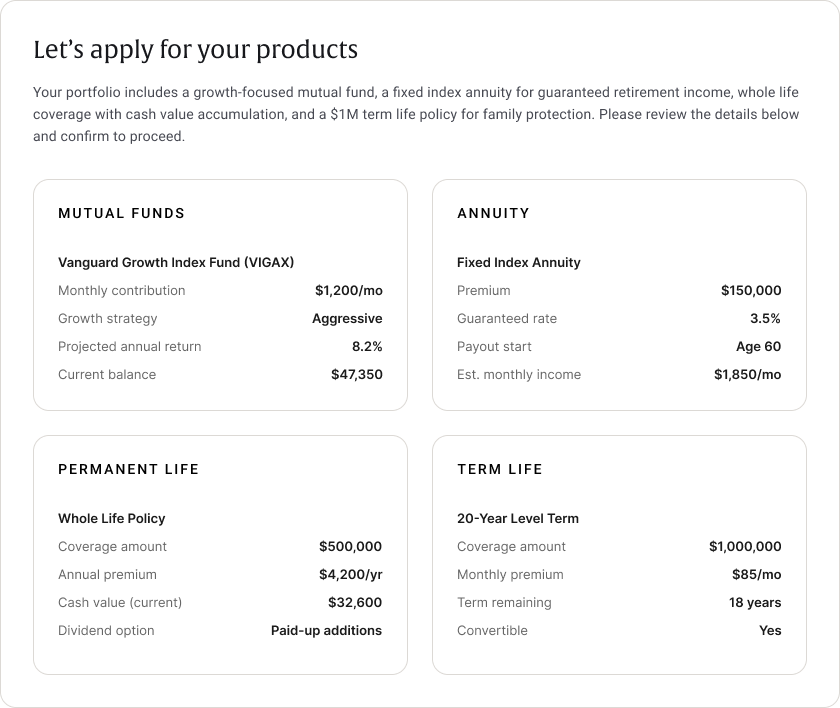
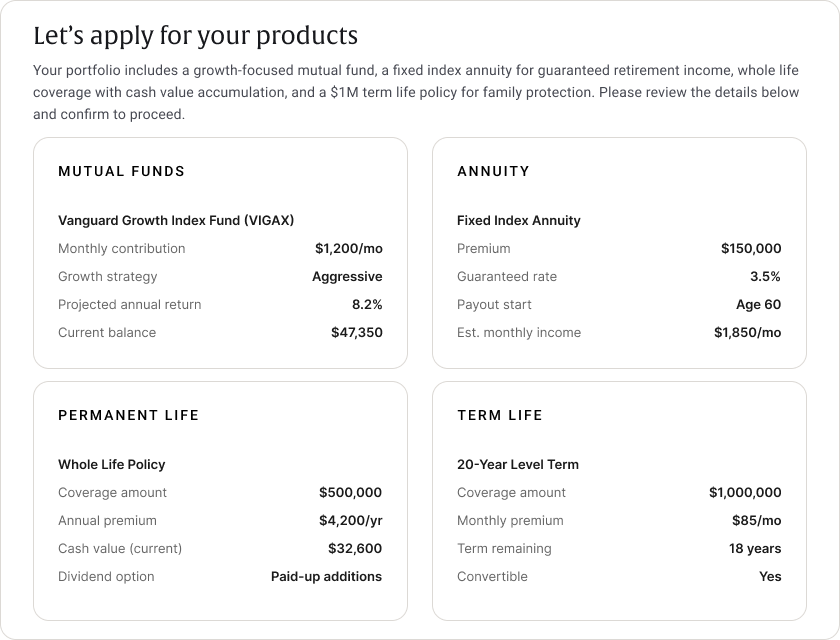
wrap up

diff --git a/src/scenes/ClientBriefingScene.tsx b/src/scenes/ClientBriefingScene.tsx
@@ -40,6 +40,10 @@ import financial3 from '../components/fin-plan-3.png'
 import nylaApply from '../components/nyla-apply.png'
 import pref2 from '../components/preference-2.png'
 import pref2nyla from '../components/preference-2-nyla.png'
+import nylapref3 from '../components/nyla-pref-3.png'
+import bodyPref3 from '../components/body-pref-3.png'
+import nylaLegacy from '../components/nyla-legacy.png';
+import legacyBody from '../components/legacy-body.png';
 
 /* ============================================================================
  * Client Briefing scene — the client's own version of the briefing screen.
@@ -331,8 +335,7 @@ const getTitle = (activeNav: string) => {
     case 'Preference Center':
       return 'Your Profile'
     case 'Legacy Vault':
-      // Code to run if expression == value2
-      break
+      return 'Welcome Eric'
     case 'Collab Board':
       return 'Collab Board'
     case 'Financial Plan':
@@ -350,7 +353,7 @@ const getTitle = (activeNav: string) => {
  * left ("Welcome Eric"), nothing on the right. */
 function TopNav({ activeNav }: { activeNav: string }) {
   return (
-    <div className="flex h-[120px] items-center">
+    <div className="flex h-[100px] items-center">
       <div className={[GRID, 'grid w-full grid-cols-12 items-center gap-6'].join(' ')}>
         <p className="col-span-5 font-serif text-[18px] text-[var(--text-headline)]" style={{ fontWeight: 400 }}>
           {getTitle(activeNav)}
@@ -963,7 +966,7 @@ export function ClientBriefingScene() {
                   transition={{ duration: DURATION.standard, delay: 0.2 }}
                   className={[GRID, 'mt-5 flex items-center gap-3'].join(' ')}
                 >
-                  <p className="text-[13px] text-[var(--text-body-muted)] mb-8 ml-2">
+                  <p className="text-[13px] text-[var(--text-body-muted)] mb-8 ml-2 cursor-pointer" onClick={() => setPreferenceView(3)}>
                     As of 12:16 PM · 4/25 questions completed
                   </p>
                 </motion.div>
@@ -991,8 +994,83 @@ export function ClientBriefingScene() {
                 </motion.div>
               </>
             )}
-            {activeNav === 'Preference Center' && preferenceView === 3 && <div>hi</div>}
-            {activeNav === 'Legacy Vault' && <div>hi</div>}
+            {activeNav === 'Preference Center' && preferenceView === 3 && (
+                            <>
+                <BriefingHeadline text="Just checking in... Has anything changed recently?" className={GRID} />
+
+                <motion.div
+                  initial={{ opacity: 0, y: 8 }}
+                  animate={{ opacity: 1, y: 0 }}
+                  transition={{ duration: DURATION.standard, delay: 0.2 }}
+                  className={[GRID, 'mt-4 flex items-center gap-3'].join(' ')}
+                >
+                  <p className="text-[13px] text-[var(--text-body-muted)] mb-4 ml-2 cursor-pointer" onClick={() => setPreferenceView(3)}>
+                    As of 12:16 PM · 4/25 questions completed
+                  </p>
+                </motion.div>
+                <motion.div
+                  className={[GRID, 'flex flex-row items-start gap-4'].join(' ')}
+                  initial={{ opacity: 0, y: 8 }}
+                  animate={{ opacity: 1, y: 0 }}
+                  exit={{ opacity: 0 }}
+                  transition={{
+                    duration: DURATION.deliberate,
+                    ease: EASE.settle as [number, number, number, number],
+                  }}
+                >
+                  <img src={bodyPref3} />
+                  <img src={nylapref3} className="mt-10" />
+                </motion.div>
+                <motion.div
+                  className={GRID}
+                  initial={{ opacity: 0 }}
+                  animate={{ opacity: 1 }}
+                  exit={{ opacity: 0 }}
+                  transition={{ duration: DURATION.deliberate, ease: EASE.settle as [number, number, number, number] }}
+                >
+                  <Nyla size={120} className="absolute bottom-0 right-10" />
+                </motion.div>
+              </>
+            )}
+            {activeNav === 'Legacy Vault' && 
+                                        <>
+                <BriefingHeadline text="Your legacy documents at a glance" className={GRID} />
+
+                <motion.div
+                  initial={{ opacity: 0, y: 8 }}
+                  animate={{ opacity: 1, y: 0 }}
+                  transition={{ duration: DURATION.standard, delay: 0.2 }}
+                  className={[GRID, 'mt-4 flex items-center gap-3'].join(' ')}
+                >
+                  <p className="text-[13px] text-[var(--text-body-muted)] mb-4 ml-2 cursor-pointer" onClick={() => setPreferenceView(3)}>
+                    As of 12:16 PM · 4/25 questions completed
+                  </p>
+                </motion.div>
+                <motion.div
+                  className={[GRID, 'flex flex-row items-start gap-4'].join(' ')}
+                  initial={{ opacity: 0, y: 8 }}
+                  animate={{ opacity: 1, y: 0 }}
+                  exit={{ opacity: 0 }}
+                  transition={{
+                    duration: DURATION.deliberate,
+                    ease: EASE.settle as [number, number, number, number],
+                  }}
+                >
+                  <img src={legacyBody} />
+                  <img src={nylaLegacy} className="mt-10" />
+                </motion.div>
+                <motion.div
+                  className={GRID}
+                  initial={{ opacity: 0 }}
+                  animate={{ opacity: 1 }}
+                  exit={{ opacity: 0 }}
+                  transition={{ duration: DURATION.deliberate, ease: EASE.settle as [number, number, number, number] }}
+                >
+                  <Nyla size={120} className="absolute bottom-0 right-10" />
+                </motion.div>
+              </>
+            
+            }
             {activeNav === 'Resources' && (
               <motion.div
                 className="flex flex-row justify-center"
@@ -1063,6 +1141,7 @@ export function ClientBriefingScene() {
                   }}
                 >
                   <img src={financial2} />
+
                 </motion.div>
                 <motion.div
                   className={GRID}
@@ -1071,7 +1150,8 @@ export function ClientBriefingScene() {
                   exit={{ opacity: 0 }}
                   transition={{ duration: DURATION.deliberate, ease: EASE.settle as [number, number, number, number] }}
                 >
-                  <img src={nylaFin2} className="absolute right-0 top-[50%]" />
+                  <img src={nylaFin2} className="absolute right-0 top-[40%]" />
+
                   <Nyla size={120} className="absolute bottom-0 right-10" />
                   <ButtonContainer
                     secondaryVariant="secondary"
@@ -1095,7 +1175,7 @@ export function ClientBriefingScene() {
             {activeNav === 'Financial Plan' && financialPlanView === 3 && (
               <>
                 <motion.div
-                  className={['ml-6 flex flex-row items-center justify-center w-full'].join(' ')}
+                  className={[' flex flex-row items-center justify-center w-full'].join(' ')}
                   initial={{ opacity: 0, y: 8 }}
                   animate={{ opacity: 1, y: 0 }}
                   exit={{ opacity: 0 }}
@@ -1105,7 +1185,6 @@ export function ClientBriefingScene() {
                   }}
                 >
                   <img src={financial3} />
-                  <img src={nylaApply} className="" />
                 </motion.div>
                 <motion.div
                   className={GRID}
@@ -1114,6 +1193,7 @@ export function ClientBriefingScene() {
                   exit={{ opacity: 0 }}
                   transition={{ duration: DURATION.deliberate, ease: EASE.settle as [number, number, number, number] }}
                 >
+                  <img src={nylaApply} className="absolute right-0 top-[20%]" />
                   <Nyla size={120} className="absolute bottom-0 right-10" />
                   <ButtonContainer
                     primaryLabel="Start your application"
@@ -1122,7 +1202,7 @@ export function ClientBriefingScene() {
                       setPreferenceView(2)
                       setActiveNav('Preference Center')
                     }}
-                    className="absolute bottom-2 right-[20%]"
+                    className="absolute bottom-10 right-[20%]"
                   />
                 </motion.div>
               </>

diff --git a/src/scenes/LandingChooser.tsx b/src/scenes/LandingChooser.tsx
@@ -35,13 +35,22 @@ export function LandingChooser() {
 
   const cards: Card[] = [
     {
-      label: 'First-time onboarding',
+      label: 'First-time agent onboarding',
       description: 'Set your goals, shape how your OS works, and see your first plan come together.',
       quickLinks: [
         { label: 'Discovery', action: () => openDiscovery() },
         { label: 'Plan reveal', action: () => openDiscoveryAt('plan') },
-        { label: 'Client', action: () => openClientFlow() },
-        { label: 'Brief', action: () => openClientBrief() },
+ 
+      ],
+      action: pickOnboarding,
+    },
+        {
+      label: 'First-time client onboarding',
+      description: 'Set your goals, shape how your OS works, and see your first plan come together.',
+      quickLinks: [
+ 
+        { label: 'Discovery', action: () => openClientFlow() },
+        { label: 'Dashboard', action: () => openClientBrief() },
       ],
       action: pickOnboarding,
     },
